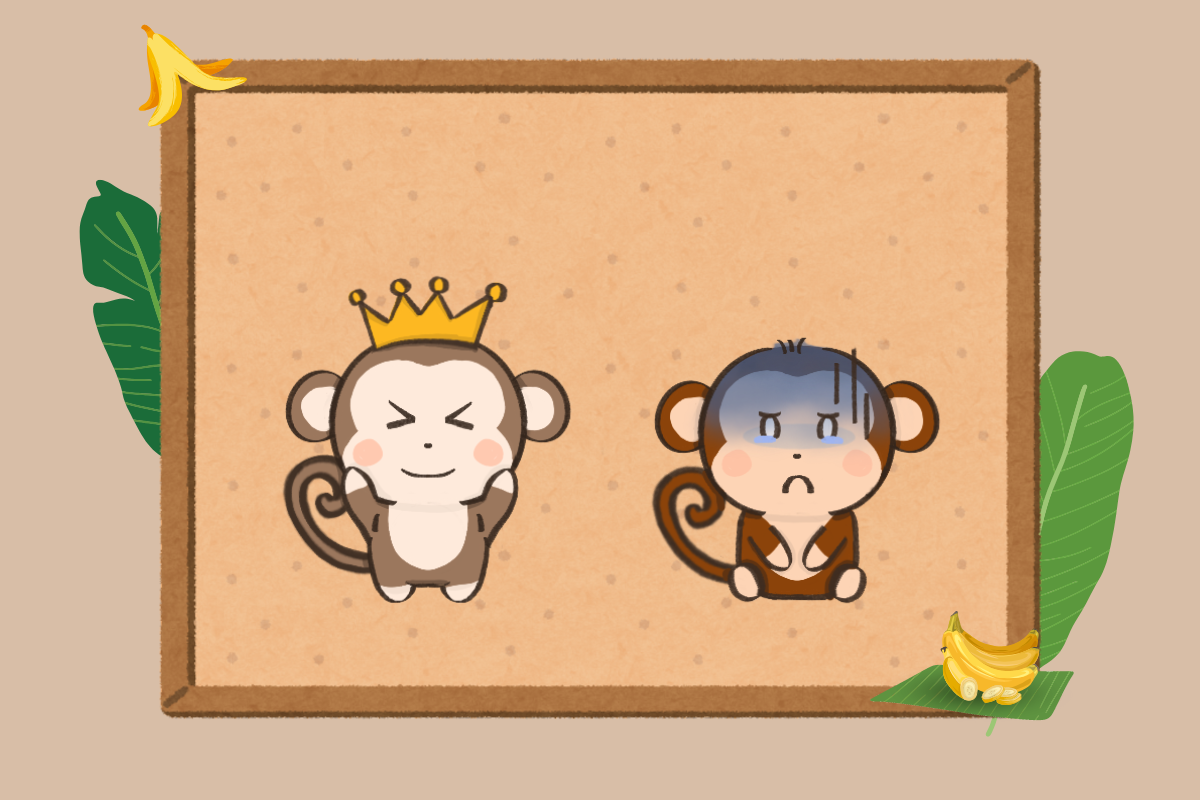
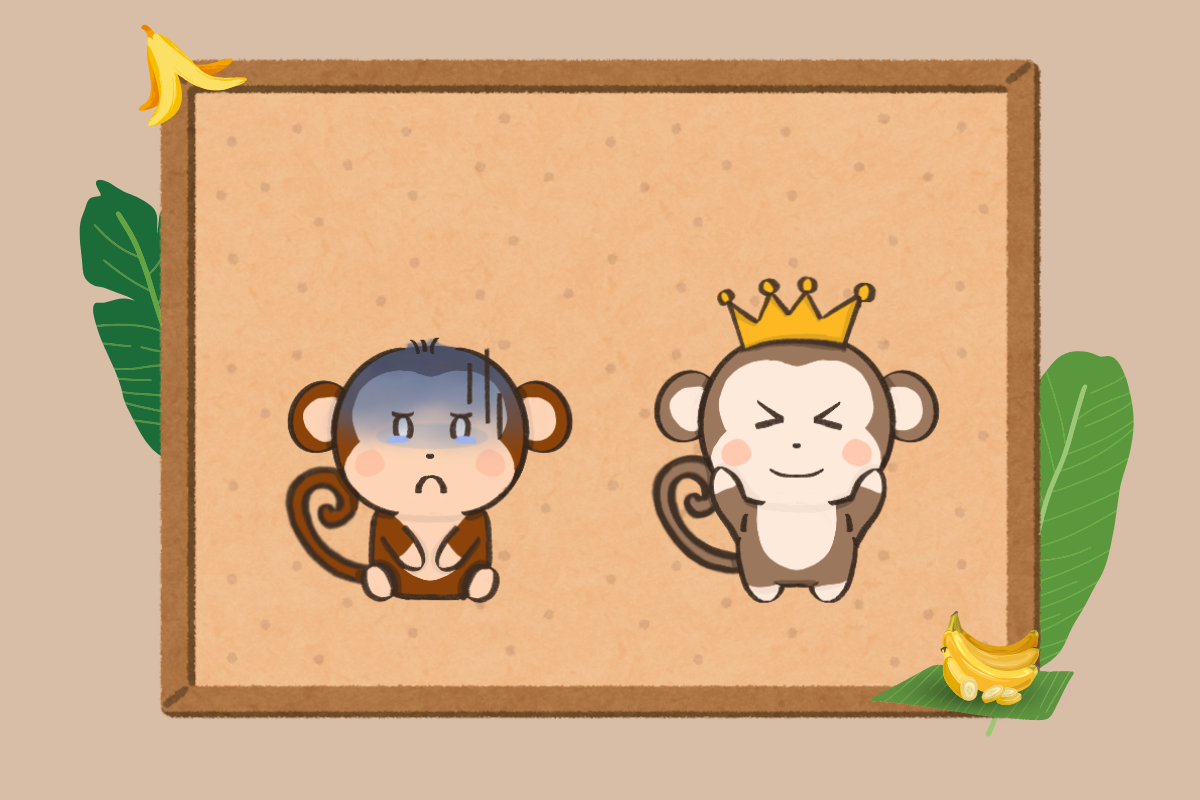
bg pingpon

Changed region(s): [[0.5242, 0.3438, 0.8017, 0.75], [0.2158, 0.3438, 0.4933, 0.75]]

diff --git a/src/pingpong.cpp b/src/pingpong.cpp
@@ -1,20 +1,23 @@
 #include <raylib.h>
 #include <iostream>
 #include "pingpong.h"
+#include "object.h"
+#include "style.h"
 
 // Color definitions
 Color Green = Color{38, 185, 154, 255};
 Color Dark_Green = Color{20, 160, 133, 255};
 Color Light_Green = Color{129, 204, 184, 255};
 Color Yellow = Color{243, 213, 91, 255};
+Color brown = Color{139,69,19,255};
 
 // Screen dimensions
 const int screen_width = 1200;
 const int screen_height = 800;
 
 // Game state variables
-int player_score = 0;
-int cpu_score = 0;
+int P1score = 0;
+int P2score = 0;
 bool game_over = false;
 
 
@@ -37,7 +40,7 @@ void banana::unload(){
 }
 
 void banana::drawbanana(){
-    DrawTextureEx(pic,{x - pic.width / 2, y - pic.height / 2,},0.0f,1.0f,WHITE);
+    DrawTextureEx(pic,{x - pic.width / 2, y - pic.height / 2,},0.0f,1.5f,WHITE);
 }
 
 void banana::Update() {
@@ -50,13 +53,13 @@ void banana::Update() {
         speed_y *= -1;
     }
 
-    if (x + pic.width / 2 >= GetScreenWidth()) {  // ตรวจสอบขอบขวา
-        cpu_score++;
+    if (x + pic.width / 2 >= GetScreenWidth()) {  
+        P2score++;
         ResetBall();
     }
     
-    if (x - pic.width / 2 <= 0) {  // ตรวจสอบขอบซ้าย
-        player_score++;
+    if (x - pic.width / 2 <= 0) {
+        P1score++;
         ResetBall();
     }
     
@@ -82,7 +85,7 @@ void Paddle::LimitMovement() {
 }
 
 void Paddle::Draw() {
-    DrawRectangleRounded(Rectangle{x, y, width, height}, 0.8, 0, WHITE);
+    DrawRectangleRounded(Rectangle{x, y, width, height}, 0.8, 0, brown);
 }
 
 void Paddle::Update() {}
@@ -115,30 +118,29 @@ void Player2Paddle::Update() {
 
 // Main game function
 void playpingpong() {
-    std::cout << "Starting the game" << std::endl;
-
-    InitWindow(screen_width, screen_height, "2 Player Pong Game!");
-    SetTargetFPS(60);
+    result result;
+    style style;
+    Texture2D bg = LoadTexture("pic/pingpong/bg.png");
 
     banana ball;
     ball.x = screen_width / 2;
     ball.y = screen_height / 2;
-    ball.speed_x = 7;
-    ball.speed_y = 7;
+    ball.speed_x = 10;
+    ball.speed_y = 10;
 
     Player1Paddle player1;
-    player1.width = 25;
+    player1.width = 20;
     player1.height = 200;
     player1.x = screen_width - player1.width - 10;
     player1.y = screen_height / 2 - player1.height / 2;
-    player1.speed = 8;
+    player1.speed = 10;
 
     Player2Paddle player2;
-    player2.width = 25;
+    player2.width = 20;
     player2.height = 200;
     player2.x = 10;
     player2.y = screen_height / 2 - player2.height / 2;
-    player2.speed = 8;
+    player2.speed = 10;
 
     while (!WindowShouldClose()) {
         BeginDrawing();
@@ -150,40 +152,66 @@ void playpingpong() {
 
         // ตรวจจับการชนกับ Player 1
         if (CheckCollisionRecs(ballRect, {player1.x, player1.y, player1.width, player1.height})) {
-            ball.speed_x *= -1;
-            ball.x = player1.x - ball.pic.width / 2 - 1;  // ป้องกันลูกบอลติดในแพดเดิล
+            ball.speed_x *= -1.3f;
+            ball.speed_y *= 1.3f;  // เปลี่ยนทิศทางลูกบอล
+            ball.x = player1.x - ball.pic.width / 2 - 1;  // ปรับตำแหน่งลูกบอลให้อยู่ด้านซ้ายของ Paddle 1
+
+            if (abs(ball.speed_x) > ball.max_speed) ball.speed_x = ball.max_speed * (ball.speed_x > 0 ? 1 : -1);
+            if (abs(ball.speed_y) > ball.max_speed) ball.speed_y = ball.max_speed * (ball.speed_y > 0 ? 1 : -1);
+
         }
         
         // ตรวจจับการชนกับ Player 2
         if (CheckCollisionRecs(ballRect, {player2.x, player2.y, player2.width, player2.height})) {
-            ball.speed_x *= -1;
-            ball.x = player2.x + player2.width + ball.pic.width / 2 + 1;  // ป้องกันลูกบอลติดในแพดเดิล
-        }        
+            ball.speed_x *= -1.3f;  // เพิ่มความเร็ว 10%
+            ball.speed_y *= 1.3f;   // เพิ่มความเร็ว 10%
+            ball.x = player2.x + player2.width + ball.pic.width / 2 + 1;  // ปรับตำแหน่งลูกบอลให้อยู่ด้านขวาของ Paddle 2
 
-        if (player_score == 3 || cpu_score == 3) {
+            // จำกัดความเร็วไม่ให้เกิน max_speed
+            if (abs(ball.speed_x) > ball.max_speed) ball.speed_x = ball.max_speed * (ball.speed_x > 0 ? 1 : -1);
+            if (abs(ball.speed_y) > ball.max_speed) ball.speed_y = ball.max_speed * (ball.speed_y > 0 ? 1 : -1);
+        }         
+
+        if (P1score == 3 || P2score == 3) {
             game_over = true;
         }
     
 
-        ClearBackground(Dark_Green);
+    DrawTexture(bg,0,0,WHITE);
 
-        if (!game_over) {
-            DrawRectangle(screen_width / 2, 0, screen_width / 2, screen_height, Green);
-            DrawCircle(screen_width / 2, screen_height / 2, 150, Light_Green);
-            DrawLine(screen_width / 2, 0, screen_width / 2, screen_height, WHITE);
-            ball.drawbanana();
-            player1.Draw();
-            player2.Draw();
-            DrawText(TextFormat("%i", cpu_score), screen_width / 4 - 20, 20, 80, WHITE);
-            DrawText(TextFormat("%i", player_score), 3 * screen_width / 4 - 20, 20, 80, WHITE);
+    if (!game_over) {
+        ball.drawbanana();
+        player1.Draw();
+        player2.Draw();
+        DrawText(TextFormat("%i", P2score), screen_width / 4 - 20, 20, 80, WHITE);
+        DrawText(TextFormat("%i", P1score), 3 * screen_width / 4 - 20, 20, 80, WHITE);
         } else {
-            ClearBackground(WHITE);
-            const char* text = (player_score == 3) ? "Player 1 Wins!" : "Player 2 Wins!";
-            int textWidth = MeasureText(text, 80);
-            DrawText(text, (screen_width - textWidth) / 2, screen_height / 2 - 40, 80, (player_score == 3) ? RED : BLUE);
+            const char* scoreP1 = TextFormat("%i", P1score);
+            const char* scoreP2 = TextFormat("%i", P2score);
+            if (P1score > P2score) {
+                result.draw(0);
+                style.centerX("Player 1 win", 100, 110, DARKBROWN);
+                DrawText(scoreP1,405,620,50,DARKBROWN);
+                DrawText(scoreP2,780,620,50,DARKBROWN);
+            } else if (P2score > P1score) {
+                result.draw(1);
+                style.centerX("Player 2 win", 100, 110, DARKBROWN);
+                DrawText(scoreP1,405,620,50,DARKBROWN);
+                DrawText(scoreP2,780,620,50,DARKBROWN);
+            } else if (P1score == P2score) {
+                result.draw(2);
+                style.centerX("Draw", 150, 110, DARKBROWN);
+                DrawText(scoreP1,405,620,50,DARKBROWN);
+                DrawText(scoreP2,780,620,50,DARKBROWN);
+            }
         }
 
         EndDrawing();
+
+        if (WindowShouldClose()) {
+            break; 
+        }
+
     }
-    CloseWindow();
+    UnloadTexture(bg);
 }

diff --git a/src/pingpong.h b/src/pingpong.h
@@ -14,30 +14,32 @@ extern const int screen_width;
 extern const int screen_height;
 
 // Game state variables
-extern int player_score;
-extern int cpu_score;
+extern int P1score;
+extern int P2score;
 extern bool game_over; // Flag to check if the game is over
-
 
 // Ball class
 
-class banana{
-    public:
-        float x, y;
-        int speed_x, speed_y;
-        Texture2D pic ;
+class banana
+{
+public:
+    float x, y;
+    int speed_x, speed_y;
+    const float max_speed = 15.0f;
+    Texture2D pic;
 
-        banana();
-        ~banana();
-        void load();
-        void unload();
-        void drawbanana();
-        void Update();
-        void ResetBall();
+    banana();
+    ~banana();
+    void load();
+    void unload();
+    void drawbanana();
+    void Update();
+    void ResetBall();
 };
 
 // Paddle class (Base class for both Player and CPU paddles)
-class Paddle {
+class Paddle
+{
 protected:
     void LimitMovement();
 
@@ -51,19 +53,35 @@ public:
 };
 
 // Player1 paddle class
-class Player1Paddle : public Paddle {
+class Player1Paddle : public Paddle
+{
 public:
     void Update() override;
 };
 
 // Player2 paddle class
-class Player2Paddle : public Paddle {
+class Player2Paddle : public Paddle
+{
 public:
     void Update() override;
 };
+
+class PowerUp{
+    public :
+        float x, y;
+        int type;
+        bool active;
+        float spawnTime;
+        float animationScale;
+
+        PowerUp();
+        ~PowerUp();
+        void Spawn();
+        void Draw();
+        const char* Getname();
+}
 
 // Function to play the pingpong game
 void playpingpong();
 
 #endif // PINGPONG_H
-

diff --git a/src/ObstacleRush.cpp b/src/ObstacleRush.cpp
@@ -55,7 +55,7 @@ void playObstacleRush()
                 {920, 0, 28, 556},
 
                 {150,90,50,50},
-                {500,700,30,30}
+                {500,680,30,30}
             };
 
         int num_obstacles = sizeof(obstacles) / sizeof(obstacles[0]);
@@ -178,11 +178,11 @@ void playObstacleRush()
         DrawObject.drawCar(1, car1_rec, car1_rotation, 0.08);
         DrawObject.drawCar(2, car2_rec, car2_rotation, 0.08);
         }
-        /*วาด obstacles ดูว่าสอดคล้องกับ รูปหรือไหม
+        //วาด obstacles ดูว่าสอดคล้องกับ รูปหรือไหม
         for (int i = 0; i < num_obstacles; i++) {
             DrawRectangleRec(obstacles[i], GRAY);
         }
-        */
+        
         
         if (game_over) {
             if (P1win) {
